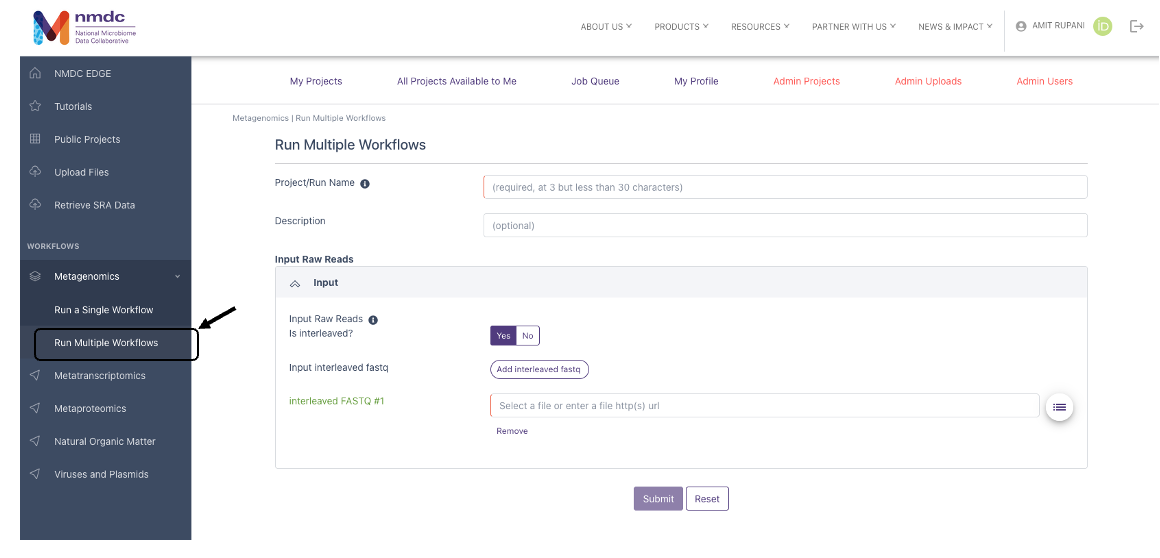
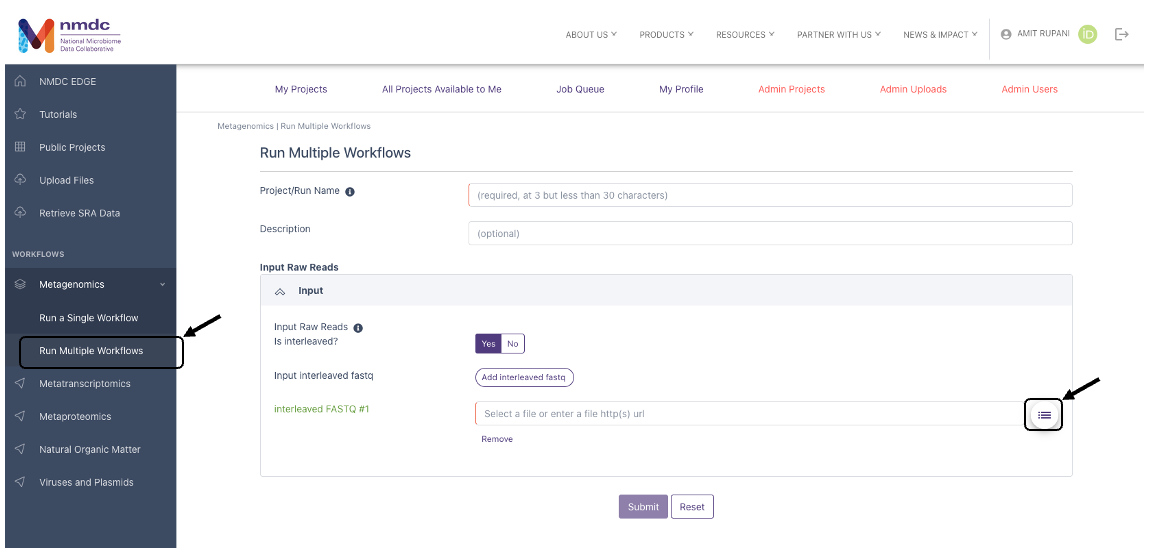
Updating run_workflows.md

diff --git a/content/home/src/howto_guides/run_workflows.md b/content/home/src/howto_guides/run_workflows.md
@@ -66,7 +66,7 @@ To run a single workflow, the user must provide:
 
 > ![](../_static/images/howto_guides/workflows/quickStart/image22.png)
 
-5.  Then select the input file(s). Clicking on the button to the right of the "interleaved FASTQ #1" (as indicated in the image above) opens a box called "Select a file" (as indicated in the image below) to allow the user to find the desired files, either from the public data folder, or files you uploaded in "Upload Data" section.
+5.  Then select the input file(s). Clicking on the button to select "interleaved FASTQ #1" opens a box called "Select a file" (as shown in the image below) to allow the user to find the desired files, either from the public data folder, or files you uploaded in "Upload Data" section.
     ![](../_static/images/howto_guides/workflows/quickStart/image21.png)
 6.  Click "Submit.
 
@@ -78,9 +78,9 @@ To run a single workflow, the user must provide:
 
 3.  The "Status" column shows whether the job is in the queue (gray), submitted (purple), running (yellow), has failed (red) or completed (green). If a project fails, a log will give the error messages for troubleshooting.
 
-4.  Clicking on the icon to the left of a project name opens up the results page for that project. 
+4.  Clicking on the icon in "Result" field opens up the results page for that project. 
 
-> ![](../_static/images/howto_guides/workflows/quickStart/image10.png)
+> ![](../_static/images/howto_guides/workflows/quickStart/image23.png)
 
 ### Project Summary (Results)
 
@@ -99,9 +99,7 @@ This example shows the results of a ReadsQC workflow run which shows run time un
 ![](../_static/images/howto_guides/workflows/quickStart/image12.png)
 
 
-The full Metagenome pipeline or "Multiple Workflow" run results show
-the results of each workflow under a separate tab and the associated
-files available for download are in separate workflow folders under the
+The full Metagenome pipeline or "Multiple Workflow" run results show the results of each workflow under a separate tab and the associated files available for download are in separate workflow folders under the
 Browser/Download Outputs tab.
 
 ![](../_static/images/howto_guides/workflows/quickStart/image13.png)
